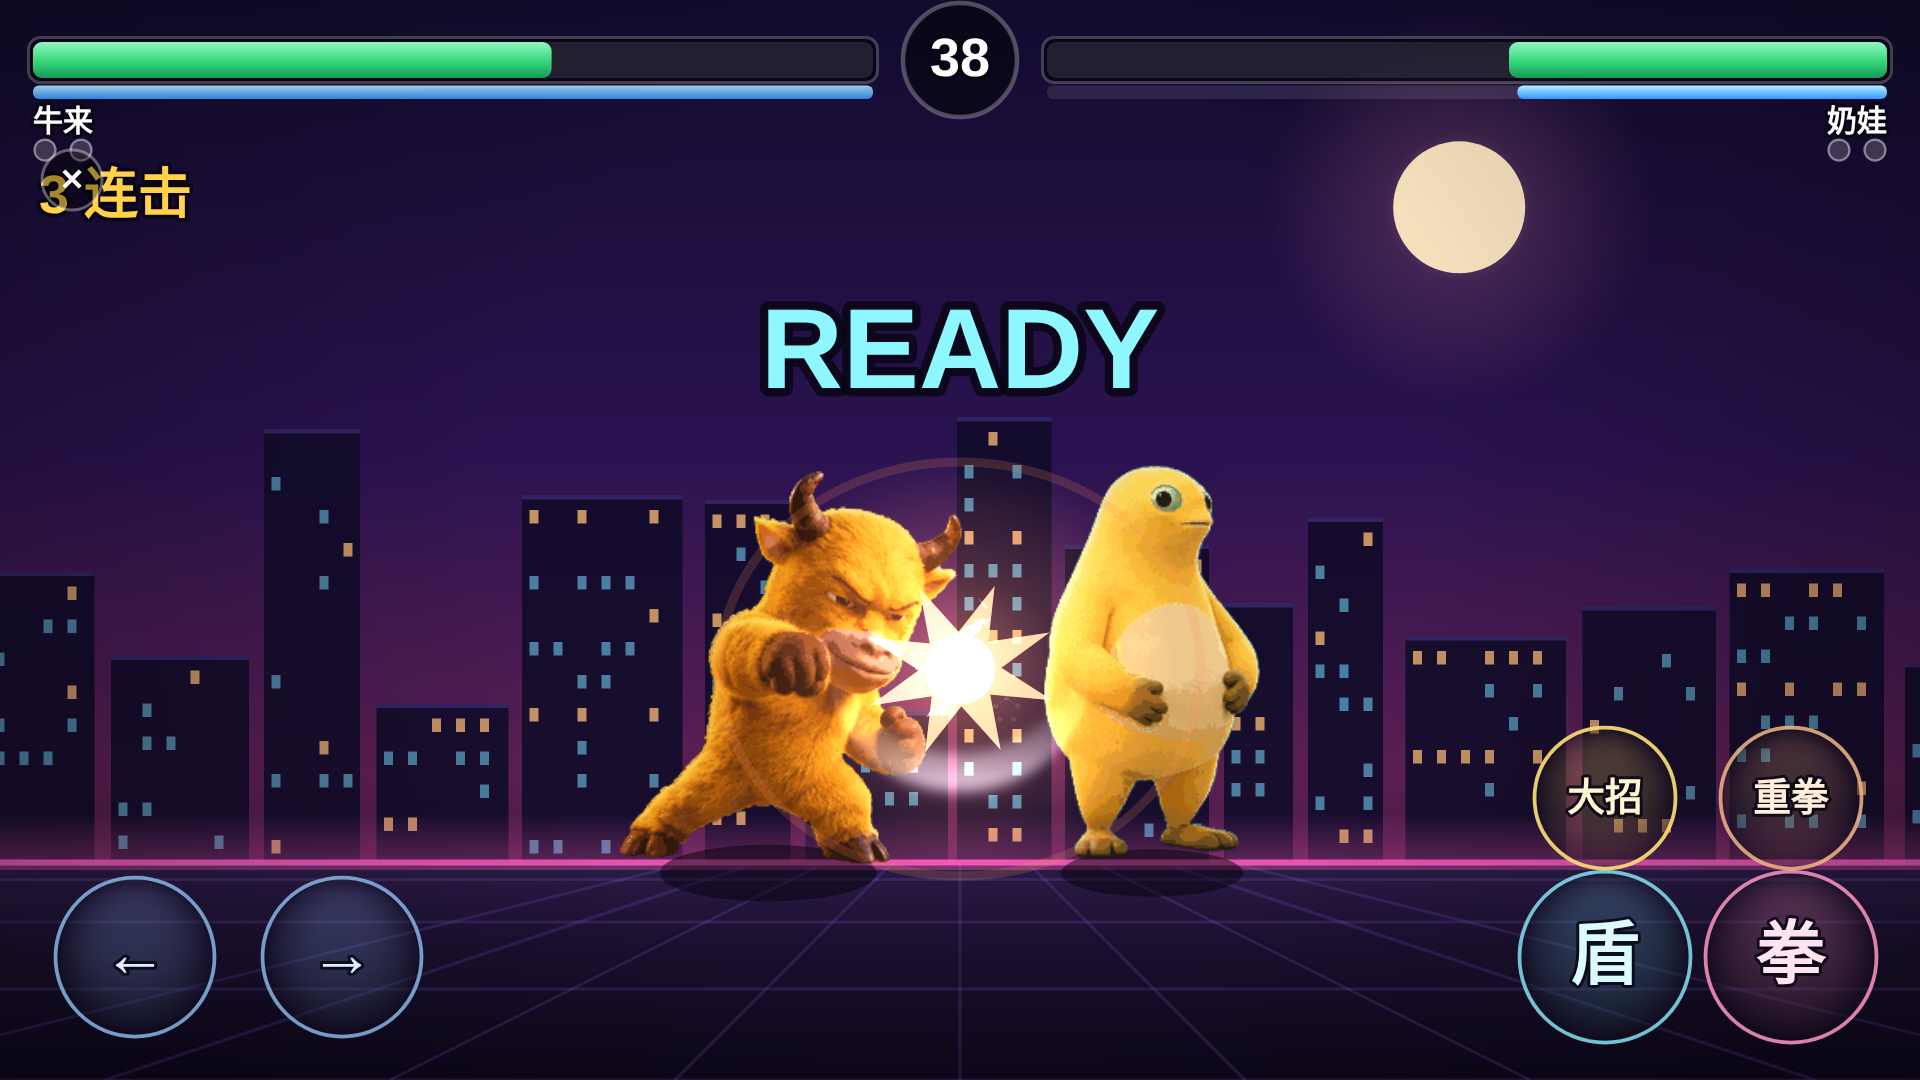
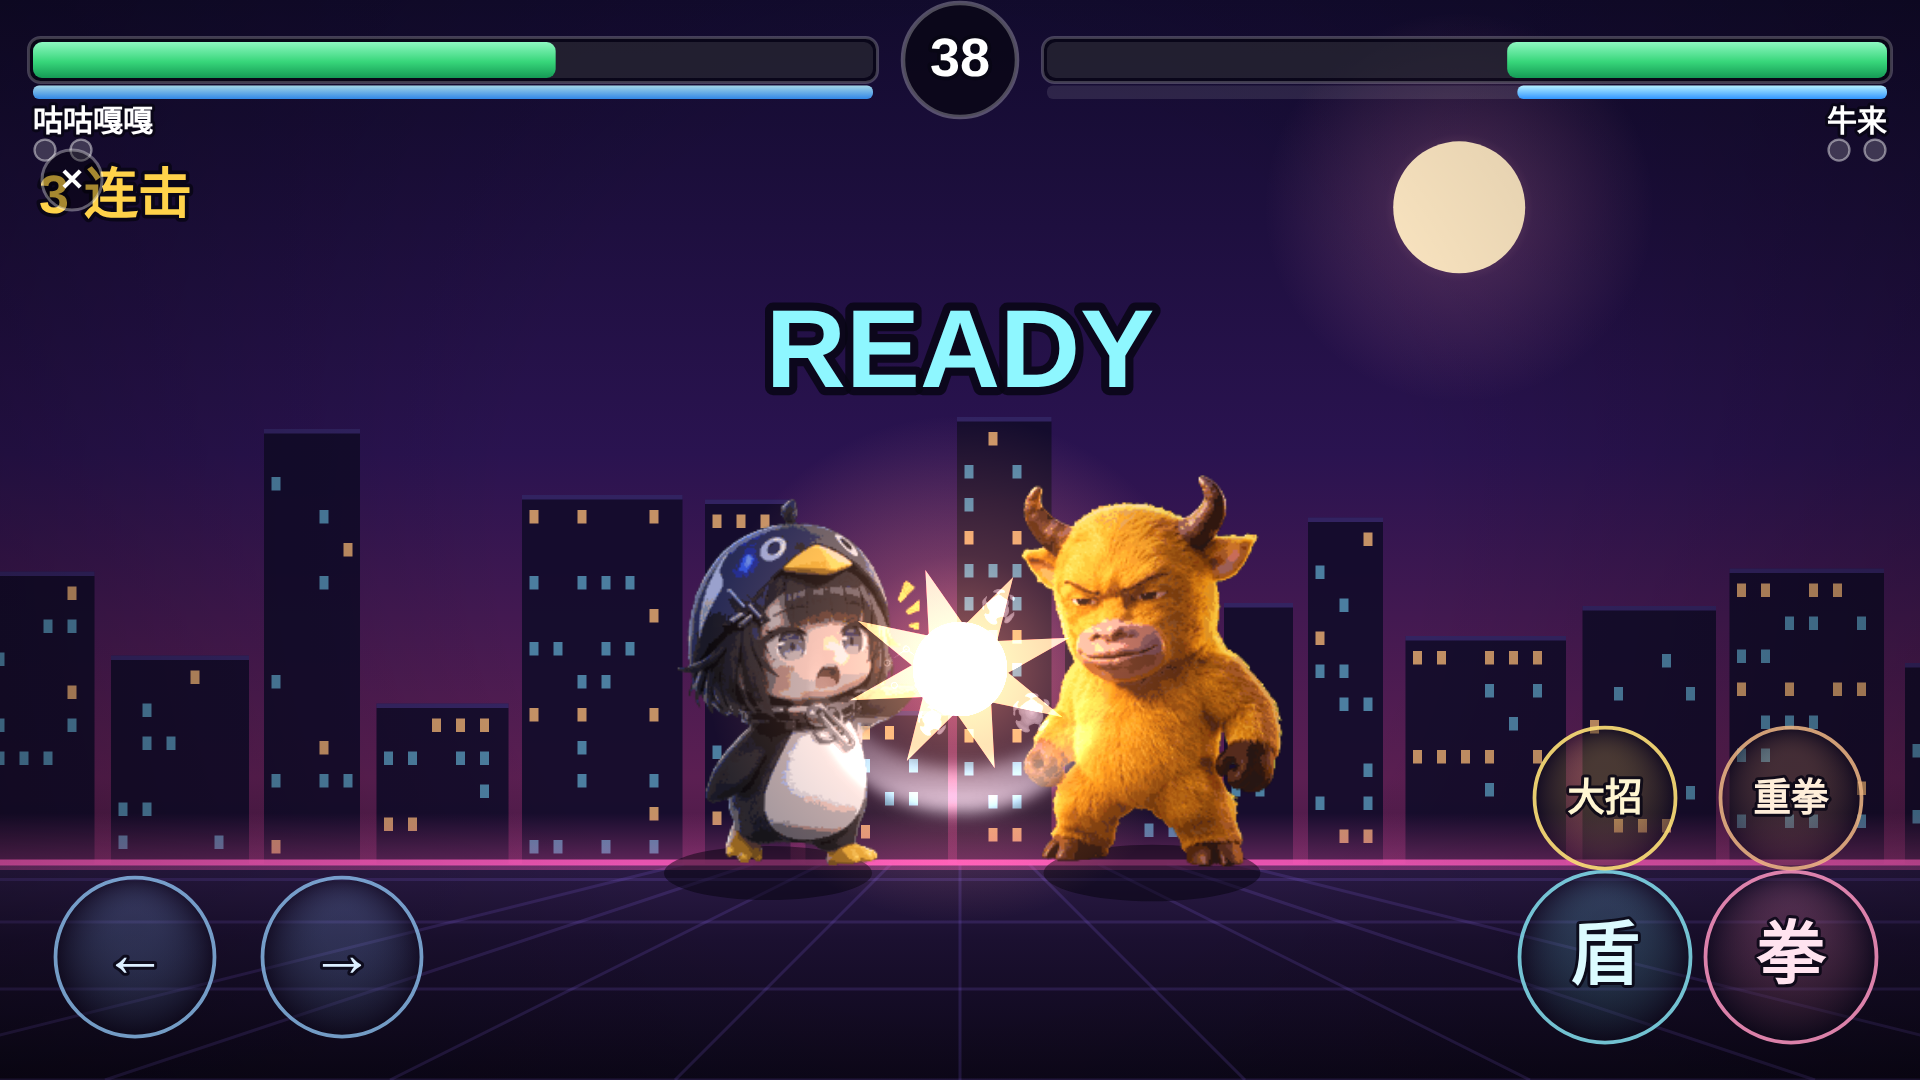
fix(fighter): 提审截图英雄对两两不同，加结构与像素双防重复检查
- shot.mjs 新增结构去重：八张图「界面+英雄对」必须互不相同，
  同一对英雄只改血条数字直接报错（这是上一款被拒的真实原因）
- 像素检查改为「整幅灰度差 ≥ 8 且最大段 ≥ 12%」，
  阈值按实测标定：同英雄对只改数字整幅差 ≈ 4，不同界面 ≥ 9
- 六张战斗/结算图英雄对全部重排，失败页与胜利页改用不同角色立绘
- 最相似一对感知差从 4.46 提升到 9.02（PIL 独立复核）
- 文档同步：WECHAT-FIGHTER.md 第 8.2/10 节按新画面重写，
  母文档 4.1 补充「跨模块」与「同模块内」两层防重复说明

diff --git a/games/fighter/docs/WECHAT-FIGHTER.md b/games/fighter/docs/WECHAT-FIGHTER.md
@@ -289,12 +289,16 @@ grep -rn "request\|fetch\|WebSocket\|cloud" src/    # → 无输出
 |---|---|---|
 | **至少 3 张**（一次性上传） | 传 5 张 | ✅ |
 | 格式 JPG / PNG | 全部 PNG | ✅ |
-| 单张 **60KB ~ 5MB** | 485 ~ 953KB | ✅ |
+| 单张 **60KB ~ 5MB** | 402 ~ 1002KB | ✅ |
 | 须为**微信游戏内**截图（非设计稿 / 非抖音版） | 由 `npm run shots` 在微信 webview 同款渲染下截取 | ✅ |
 | 截图内**游戏名必须等于当前小游戏名** | 标题页渲染 `config.gameName` = 奶娃大作战 | ✅ |
 
 > ⚠ 这 5 张**不得**再填进「系统 1/2/3」，否则后台报
 > 「请勿重复提交相同截图。不同模块需提交不一样的截图」——这是第一款被拒的原因。
+>
+> 除了「别跨模块复用」，还要注意**同一模块内两张图本身不能长得像**：
+> 裁同一场战斗只改血条数字，人工审核与后台比对都可能判重复。
+> `scripts/shot.mjs` 已内置结构 + 像素两道检查（见第 10 节），跑通即达标。
 
 ### 8.3 整体玩法设计（207 字，要求 ≥50）
 
@@ -354,19 +358,28 @@ grep -rn "request\|fetch\|WebSocket\|cloud" src/    # → 无输出
 
 ## 10. 截图清单（8 张，一一对应，不交叉复用）
 
-全部为 **1920×1080** 横屏，体积 485~953KB，均在 60KB~5MB 合规区间内。
+全部为 **1920×1080** 横屏，体积 402~1002KB，均在 60KB~5MB 合规区间内。
 生成命令：`npm run shots -w games/fighter`（需先 `npm run dev -w games/fighter` 起 5174 端口）。
 
-| 表单位置 | 文件 | 画面内容 | 体积 |
+脚本内置**两道防重复检查**，任一张与已有截图撞车会直接报错退出：
+
+1. **结构去重**：八张图的「界面 + 英雄对」必须互不相同（同一界面同一对英雄，只改血条数字也算重复）；
+2. **像素去重**：整幅灰度差 ≥ 8 且三段中最大段变化率 ≥ 12%，阈值按实测标定，详见 `scripts/shot.mjs` 注释。
+
+| 表单位置 | 文件 | 画面内容（英雄对） | 体积 |
 |---|---|---|---|
-| 相关截图 1 | [`relevant-1-title.png`](./../assets/screenshots/relevant-1-title.png) | 标题页，大字「奶娃大作战」+ 三英雄待机 | 638KB |
-| 相关截图 2 | [`relevant-2-select.png`](./../assets/screenshots/relevant-2-select.png) | 选人页，三张英雄卡 + 难度 + 对手行 | 770KB |
-| 相关截图 3 | [`relevant-3-ultimate.png`](./../assets/screenshots/relevant-3-ultimate.png) | 大招命中，全屏光效 + 高伤害数字 | 953KB |
-| 相关截图 4 | [`relevant-4-result.png`](./../assets/screenshots/relevant-4-result.png) | 失败结算页，含「看视频续关」按钮 | 496KB |
-| 相关截图 5 | [`relevant-5-victory.png`](./../assets/screenshots/relevant-5-victory.png) | 胜利结算页，比分 / 伤害 / 最高连击 | 485KB |
-| **系统 1** 四键战斗 | [`system-1-start.png`](./../assets/screenshots/system-1-start.png) | 开局 READY，六个按键完整可见 | 836KB |
-| **系统 2** 连击能量 | [`system-2-combo.png`](./../assets/screenshots/system-2-combo.png) | 打斗中，血条 / 能量条 / 连击数同时变化 | 911KB |
-| **系统 3** 回合复活 | [`system-3-vs.png`](./../assets/screenshots/system-3-vs.png) | 回合切换，顶部胜点圆点亮起 | 862KB |
+| 相关截图 1 | [`relevant-1-title.png`](./../assets/screenshots/relevant-1-title.png) | 标题页，大字「奶娃大作战」+ 三英雄待机 | 640KB |
+| 相关截图 2 | [`relevant-2-select.png`](./../assets/screenshots/relevant-2-select.png) | 选人页，三张英雄卡 + 难度 + 对手行 | 768KB |
+| 相关截图 3 | [`relevant-3-ultimate.png`](./../assets/screenshots/relevant-3-ultimate.png) | 大招命中：**奶娃（玩家）vs 咕咕嘎嘎**，能量满 + 连击 6 + 全屏光效 | 1002KB |
+| 相关截图 4 | [`relevant-4-result.png`](./../assets/screenshots/relevant-4-result.png) | 失败结算页：**咕咕嘎嘎 vs 牛来**，牛来立绘 + 「看视频续关」按钮 | 497KB |
+| 相关截图 5 | [`relevant-5-victory.png`](./../assets/screenshots/relevant-5-victory.png) | 胜利结算页：**奶娃 vs 牛来**，奶娃胜利姿势 + 比分 / 伤害 / 最高连击 | 403KB |
+| **系统 1** 四键战斗 | [`system-1-start.png`](./../assets/screenshots/system-1-start.png) | 开局 READY：**牛来 vs 奶娃**，满血，六个按键完整可见 | 840KB |
+| **系统 2** 连击能量 | [`system-2-combo.png`](./../assets/screenshots/system-2-combo.png) | 打斗中：**咕咕嘎嘎 vs 牛来**，血条 / 能量条 / 连击数同时变化 | 940KB |
+| **系统 3** 回合复活 | [`system-3-vs.png`](./../assets/screenshots/system-3-vs.png) | 回合切换：**牛来 vs 咕咕嘎嘎**，顶部胜点圆点亮起 | 905KB |
+
+> 六张战斗相关图的英雄对**两两不同**，这是刻意的：微信后台会比对「不同模块是否提交了相同截图」，
+> 同一对英雄只改数字的两张图会被判重复（上一款游戏就因此被驳回过一次）。
+> 改 `shot.mjs` 的取景时务必保持英雄对不重复，脚本会自动拦截。
 
 > 提审截图里必须能看到与后台**一字不差**的游戏名。若改了 `gameName`，
 > 必须重跑 `npm run shots`，否则 `relevant-1-title.png` 与实际名称不一致会被驳回。

diff --git a/docs/WECHAT.md b/docs/WECHAT.md
@@ -443,6 +443,17 @@
 后台红字提示「请勿重复提交相同截图。不同模块需提交不一样的截图」。
 所以 7 张图**必须按下面的分配一一对应，不要交叉复用**。
 
+**防重复要防两层**，只做到「不跨模块复用」还不够：
+
+| 层级 | 会被判重复的做法 | 正确做法 |
+|---|---|---|
+| 跨模块 | 同一张图既填「相关截图」又填「系统 1」 | 每张图只出现在一个表单位置 |
+| **同模块内** | 同一场战斗截两次，只改血条 / 分数数字（MD5 不同但肉眼几乎一样） | 换**英雄对**或换**界面状态**，让画面主体变化 |
+
+`games/fighter/scripts/shot.mjs` 已内置两道自动检查（结构去重 + 像素去重），
+跑 `npm run shots -w games/fighter` 不报错即达标；两款游戏都建议照此加检查，
+不能只靠 `md5sum` 判断——字节不同不代表肉眼不同。
+
 | 表单位置 | 用哪张图 | 画面内容 | 体积 |
 |---|---|---|---|
 | 相关截图（第 1 张） | [`relevant-1-start.png`](./../games/jump/assets/screenshots/relevant-1-start.png) | 开始页，标题就是「跳跳小光」 | 166KB |
